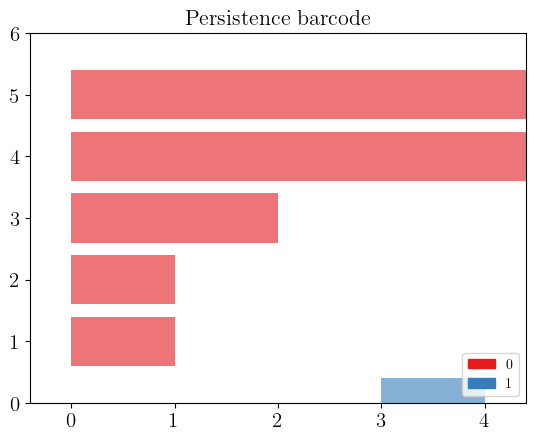
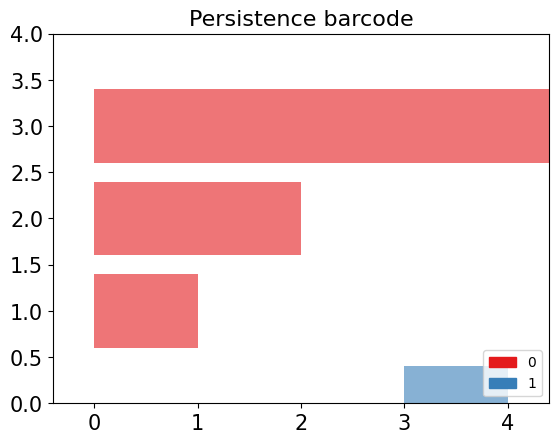
update

Changed region(s): [[0.0, 0.0, 0.9869, 0.9728]]

diff --git a/_episodes/08-tda.md b/_episodes/08-tda.md
@@ -165,11 +165,12 @@ A filtration of a simplicial complex is an ordered sequence of subcomplexes of t
   A filtration of a simplicial complex $K$ is a collection $K_0 \subset K_1 \subset ... \subset K_N$ of complexes such that:
   1. $K_N=K$.
   2. $K_i$ is a subcomplex of $K_{i+1}$, for $i=0,1,...,N-1$.
-
   <a href="../fig/Tda-Filtacion1.png">
   <img src="../fig/Tda-Filtacion1.png" alt="Example Filtration" width="70%" height="auto"/>
 </a>
 
+
+Now, to apply persistent homology, we need to vary our parameter associated with the filtration. In the filtration graph, we have 5 distinct steps for the filtered simplicial complex. In each of these steps, we can have a different number of connected components and 1-holes. To visualize these changes, we will use a representation with the following persistence diagrams and barcode.
 ### **Persistence Diagram:**
  The persistence diagram is a visual representation of the evolution of cycles and cavities in different dimensions as the simplicial complex is modified. It helps understand the persistence and relevance of topological structures in the complex.
   <a href="../fig/tda_08_diagrama.png">
